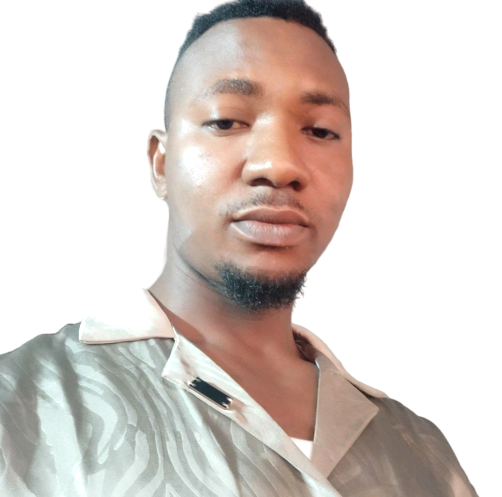
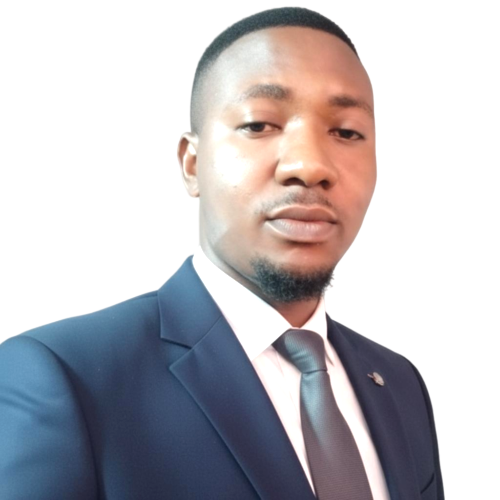
About Me section

diff --git a/src/components/Navbar.tsx b/src/components/Navbar.tsx
@@ -1,61 +1,59 @@
 // src/components/Navbar.tsx
 "use client";
 
-import Link from "next/link";
-import { usePathname } from "next/navigation";
 import { useState } from "react";
 import { motion, AnimatePresence } from "framer-motion";
 import { FaBars, FaTimes, FaSun, FaMoon } from "react-icons/fa";
 import { useTheme } from "next-themes";
+import { Link as ScrollLink } from "react-scroll";
 
 const navLinks = [
-  { name: "Home", href: "/" },
-  { name: "About", href: "/about" },
-  { name: "Projects", href: "/projects" },
-  { name: "Contact", href: "/contact" },
+  { name: "Home", to: "home" },
+  { name: "About", to: "about" },
+  { name: "Projects", to: "projects" },
+  { name: "Contact", to: "contact" },
 ];
 
 export default function Navbar() {
   const [isOpen, setIsOpen] = useState(false);
   const { theme, setTheme } = useTheme();
-  const pathname = usePathname();
 
   return (
     <nav className="fixed top-0 left-0 w-full z-50 bg-white/80 dark:bg-black/70 backdrop-blur-md border-b border-gray-200 dark:border-gray-800">
       <div className="max-w-6xl mx-auto px-4 sm:px-6 lg:px-8 flex items-center justify-between h-16">
         {/* Logo */}
-        <Link href="/" className="text-xl font-bold tracking-tight">
+        <ScrollLink
+          to="home"
+          smooth={true}
+          duration={700}
+          offset={-70}
+          className="text-xl font-bold tracking-tight cursor-pointer"
+        >
           Victor<span className="text-blue-600">Eze</span>
-        </Link>
+        </ScrollLink>
 
         {/* Desktop Nav */}
         <div className="hidden md:flex space-x-8 items-center">
-          {navLinks.map((link) => {
-            const isActive = pathname === link.href;
-            return (
-              <Link
-  key={link.name}
-  href={link.href}
-  className={`relative pb-1 transition-colors ${
-    isActive ? "text-blue-600" : "text-gray-800 dark:text-gray-200"
-  }`}
->
-  {link.name}
-  {/* underline effect */}
-  <span
-    className={`absolute left-0 -bottom-0.5 h-[2px] w-0 bg-blue-600 transition-all duration-300 ${
-      isActive ? "w-full" : "group-hover:w-full"
-    }`}
-  />
-</Link>
-
-            );
-          })}
+          {navLinks.map((link) => (
+            <ScrollLink
+              key={link.name}
+              to={link.to}
+              smooth={true}
+              duration={700}
+              offset={-70}
+              spy={true}
+              activeClass="!text-blue-600" // 👈 Force active state
+              className="group relative pb-1 cursor-pointer text-gray-800 dark:text-gray-200 hover:text-blue-600 transition-colors"
+            >
+              {link.name}
+              <span className="absolute left-0 -bottom-0.5 h-[2px] w-0 bg-blue-600 transition-all duration-300 group-hover:w-full"></span>
+            </ScrollLink>
+          ))}
 
           {/* Theme Toggle */}
           <button
             onClick={() => setTheme(theme === "dark" ? "light" : "dark")}
-            className="p-2 rounded-lg hover:bg-gray-100 dark:hover:bg-gray-800"
+            className="p-2 rounded-lg hover:bg-gray-100 dark:hover:bg-gray-800 transition"
           >
             {theme === "dark" ? <FaMoon /> : <FaSun />}
           </button>
@@ -65,7 +63,7 @@ export default function Navbar() {
         <div className="md:hidden flex items-center">
           <button
             onClick={() => setIsOpen(!isOpen)}
-            className="p-2 rounded-lg hover:bg-gray-100 dark:hover:bg-gray-800"
+            className="p-2 rounded-lg hover:bg-gray-100 dark:hover:bg-gray-800 transition"
           >
             {isOpen ? <FaTimes size={22} /> : <FaBars size={22} />}
           </button>
@@ -83,27 +81,21 @@ export default function Navbar() {
             className="md:hidden bg-white dark:bg-black border-t border-gray-200 dark:border-gray-800"
           >
             <div className="px-4 pt-4 pb-6 space-y-4">
-              {navLinks.map((link) => {
-                const isActive = pathname === link.href;
-                return (
-                  <Link
-                    key={link.name}
-                    href={link.href}
-                    onClick={() => setIsOpen(false)}
-                    className={`relative block text-lg pb-1 ${
-                      isActive ? "text-blue-600" : "text-gray-800 dark:text-gray-200"
-                    }`}
-                  >
-                    {link.name}
-                    {/* underline effect */}
-                    <span
-                      className={`absolute left-0 -bottom-0.5 h-[2px] w-0 bg-blue-600 transition-all duration-300 ${
-                        isActive ? "w-full" : "group-hover:w-full"
-                      }`}
-                    />
-                  </Link>
-                );
-              })}
+              {navLinks.map((link) => (
+                <ScrollLink
+                  key={link.name}
+                  to={link.to}
+                  smooth={true}
+                  duration={700}
+                  offset={-70}
+                  spy={true}
+                  activeClass="!text-blue-600"
+                  onClick={() => setIsOpen(false)}
+                  className="block text-lg pb-1 cursor-pointer text-gray-800 dark:text-gray-200 hover:text-blue-600 transition-colors"
+                >
+                  {link.name}
+                </ScrollLink>
+              ))}
 
               {/* Theme Toggle */}
               <button

diff --git a/src/components/AboutMe.tsx b/src/components/AboutMe.tsx
@@ -1,0 +1,119 @@
+"use client";
+import { motion } from "framer-motion";
+import { FaLaptopCode, FaGlobe, FaLightbulb } from "react-icons/fa";
+
+export default function AboutMe() {
+  return (
+    <section
+      id="about"
+      className="py-24 bg-gray-50 dark:bg-gray-900 transition-colors duration-500"
+    >
+      <div className="max-w-6xl mx-auto px-6 lg:px-12 grid lg:grid-cols-2 gap-12 items-center">
+        {/* Left Content */}
+        <motion.div
+          initial={{ opacity: 0, x: -50 }}
+          whileInView={{ opacity: 1, x: 0 }}
+          viewport={{ once: true }}
+          transition={{ duration: 0.8 }}
+          className="text-center lg:text-left"
+        >
+          <motion.h2
+            initial={{ opacity: 0, y: 20 }}
+            whileInView={{ opacity: 1, y: 0 }}
+            transition={{ delay: 0.2, duration: 0.8 }}
+            className="text-3xl md:text-4xl font-bold text-gray-900 dark:text-white"
+          >
+            About Me
+          </motion.h2>
+
+          <motion.p
+            initial={{ opacity: 0, y: 20 }}
+            whileInView={{ opacity: 1, y: 0 }}
+            transition={{ delay: 0.4, duration: 0.8 }}
+            className="mt-6 text-lg text-gray-600 dark:text-gray-300 leading-relaxed"
+          >
+            I&apos;m <span className="font-semibold text-blue-600">Victor</span>, a
+            passionate <span className="text-blue-600 font-medium">Frontend Developer</span> 
+            who loves crafting sleek, responsive, and user-friendly web
+            applications. I specialize in{" "}
+            <span className="font-semibold">Next.js, React, TypeScript, and TailwindCSS</span>, 
+            with strong experience in turning designs into high-performing digital experiences.
+          </motion.p>
+
+          <motion.p
+            initial={{ opacity: 0, y: 20 }}
+            whileInView={{ opacity: 1, y: 0 }}
+            transition={{ delay: 0.6, duration: 0.8 }}
+            className="mt-4 text-lg text-gray-600 dark:text-gray-300 leading-relaxed"
+          >
+            With a strong foundation in UI/UX principles and modern frontend tools, 
+            I enjoy building products that not only function seamlessly but also look 
+            visually appealing. Currently seeking{" "}
+            <span className="font-semibold text-blue-600">remote opportunities</span> 
+            to collaborate and bring creative ideas to life.
+          </motion.p>
+        </motion.div>
+
+        {/* Right Floating Cards */}
+        <motion.div
+          initial={{ opacity: 0, x: 50 }}
+          whileInView={{ opacity: 1, x: 0 }}
+          viewport={{ once: true }}
+          transition={{ duration: 0.8 }}
+          className="flex flex-col gap-6"
+        >
+          {/* Floating Card 1 */}
+          <motion.div
+            animate={{ y: [0, -10, 0] }}
+            transition={{ duration: 4, repeat: Infinity, ease: "easeInOut" }}
+            className="p-6 rounded-2xl shadow-lg bg-white dark:bg-gray-800 flex items-center gap-4"
+          >
+            <FaLaptopCode className="text-blue-600 text-3xl" />
+            <div>
+              <h3 className="text-lg font-semibold text-gray-900 dark:text-white">
+                Clean Code
+              </h3>
+              <p className="text-gray-600 dark:text-gray-300 text-sm">
+                Writing scalable, maintainable, and readable frontend code.
+              </p>
+            </div>
+          </motion.div>
+
+          {/* Floating Card 2 */}
+          <motion.div
+            animate={{ y: [0, 10, 0] }}
+            transition={{ duration: 5, repeat: Infinity, ease: "easeInOut" }}
+            className="p-6 rounded-2xl shadow-lg bg-white dark:bg-gray-800 flex items-center gap-4"
+          >
+            <FaGlobe className="text-blue-600 text-3xl" />
+            <div>
+              <h3 className="text-lg font-semibold text-gray-900 dark:text-white">
+                Global Mindset
+              </h3>
+              <p className="text-gray-600 dark:text-gray-300 text-sm">
+                Building responsive apps that scale for users worldwide.
+              </p>
+            </div>
+          </motion.div>
+
+          {/* Floating Card 3 */}
+          <motion.div
+            animate={{ y: [0, -12, 0] }}
+            transition={{ duration: 6, repeat: Infinity, ease: "easeInOut" }}
+            className="p-6 rounded-2xl shadow-lg bg-white dark:bg-gray-800 flex items-center gap-4"
+          >
+            <FaLightbulb className="text-blue-600 text-3xl" />
+            <div>
+              <h3 className="text-lg font-semibold text-gray-900 dark:text-white">
+                Creative Problem Solving
+              </h3>
+              <p className="text-gray-600 dark:text-gray-300 text-sm">
+                Transforming ideas into engaging, functional web experiences.
+              </p>
+            </div>
+          </motion.div>
+        </motion.div>
+      </div>
+    </section>
+  );
+}

diff --git a/src/components/Hero.tsx b/src/components/Hero.tsx
@@ -14,19 +14,22 @@ export default function Hero() {
 
   return (
     <motion.section
+    id="home"
       key={theme}
       initial={{ opacity: 0 }}
       animate={{ opacity: 1 }}
       exit={{ opacity: 0 }}
       transition={{ duration: 0.6 }}
-      className="h-screen flex items-center pt-16 
+      className="min-h-screen flex items-center 
+                 pt-24 sm:pt-20 lg:pt-16 
                  bg-white dark:bg-gray-900 
                  transition-colors duration-500"
     >
       <div
+      
         className="max-w-7xl mx-auto px-6 lg:px-12 
-                   grid grid-cols-1 lg:grid-cols-2 gap-12 items-center
-                   flex-col-reverse"
+                   flex flex-col-reverse lg:grid lg:grid-cols-2 
+                   gap-12 items-center"
       >
         {/* Left Text Section */}
         <motion.div
@@ -41,7 +44,7 @@ export default function Hero() {
             transition={{ delay: 0.3, duration: 0.6 }}
             className="text-blue-600 font-medium text-lg"
           >
-            👋 Hi, I&apos;m Victor
+            Hi, I&apos;m Victor
           </motion.p>
 
           <motion.h1
@@ -101,12 +104,12 @@ export default function Hero() {
           </motion.div>
         </motion.div>
 
-        {/* Right Image Section with Floating Animation */}
+        {/* Right Image Section with Live Animation */}
         <motion.div
           initial={{ opacity: 0, scale: 0.9 }}
           animate={{ opacity: 1, scale: 1 }}
           transition={{ delay: 0.9, duration: 0.8 }}
-          className="flex justify-center lg:justify-end order-first lg:order-none"
+          className="flex justify-center lg:justify-end"
         >
           <motion.div
             animate={{
@@ -121,7 +124,7 @@ export default function Hero() {
             }}
           >
             <Image
-              src={theme === "dark" ? "/me.png" : "/merev.png"}
+              src={theme === "dark" ? "/me.png" : "/reverse.png"}
               alt="Victor - Frontend Developer"
               width={300}
               height={300}

diff --git a/src/app/page.tsx b/src/app/page.tsx
@@ -1,9 +1,13 @@
 import Hero from "@/components/Hero";
+import AboutMe from "@/components/AboutMe";
 
 export default function Home() {
   return (
     <div className="">
      <Hero />
+     <AboutMe />
+     {/* <Projects /> */}
+     {/* <Contact /> */}
     </div>
   );
 }

diff --git a/src/app/globals.css b/src/app/globals.css
@@ -120,3 +120,7 @@
     @apply bg-background text-foreground;
   }
 }
+
+html {
+  scroll-behavior: smooth;
+}
